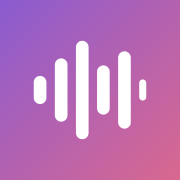
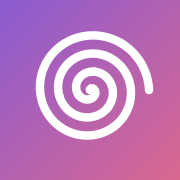
Sarmal tasarım ve ॐ

Changed region(s): [[0.1667, 0.1667, 0.8611, 0.7778]]

diff --git a/index.html b/index.html
@@ -117,12 +117,42 @@
   .note { color: var(--muted); font-size: 13px; text-align: center; margin-top: 8px; }
   .link { background: none; border: 0; color: var(--muted); font: inherit; font-size: 13px; text-decoration: underline; cursor: pointer; padding: 0; }
   [hidden] { display: none !important; }
+  .om {
+    font-weight: 400; display: inline-block; margin-left: 2px;
+    background: linear-gradient(135deg, var(--accent), var(--accent-2));
+    -webkit-background-clip: text; background-clip: text; color: transparent;
+  }
+  .foot-om { text-align: center; font-size: 26px; margin: 22px 0 0; opacity: .55; }
+
+  /* ---- sarmallar ---- */
+  .bg-spiral {
+    position: fixed; z-index: 0; pointer-events: none; opacity: .22;
+    width: min(62vw, 440px); height: auto; top: -40px; right: -90px;
+    transform-origin: 62% 38%; animation: sway 18s ease-in-out infinite alternate;
+  }
+  .bg-spiral.b { top: auto; right: auto; bottom: -70px; left: -110px; width: min(80vw, 560px); opacity: .14; transform: rotate(180deg); animation: none; }
+  @media (prefers-color-scheme: dark) { .bg-spiral { opacity: .3; } .bg-spiral.b { opacity: .18; } }
+  main { position: relative; z-index: 1; }
+  @keyframes turn { to { transform: rotate(360deg); } }
+  @keyframes sway { from { transform: rotate(-4deg); } to { transform: rotate(4deg); } }
+  .spin { animation: turn 2.4s linear infinite; }
+  .drop:hover .icon svg, .drop:active .icon svg { animation: turn 1.6s ease-in-out; }
+  .sprog { display: flex; align-items: center; gap: 14px; margin-top: 14px; }
+  .sprog-label { display: block; color: var(--muted); font-size: 14px; }
+  .sprog svg path.track { opacity: .15; }
+  .sprog svg path.fill { stroke-dasharray: 1; stroke-dashoffset: 1; transition: stroke-dashoffset .4s ease; }
+  .sprog-pct { font-size: 22px; font-weight: 750; font-variant-numeric: tabular-nums;
+    background: linear-gradient(90deg, var(--accent), var(--accent-2)); -webkit-background-clip: text; background-clip: text; color: transparent; }
+  .rec .dot svg { display: block; }
+  @media (prefers-reduced-motion: reduce) { .bg-spiral, .spin, .drop .icon svg { animation: none !important; } }
 </style>
 </head>
 <body>
+<span data-spiral="fib" data-size="440" class="bg-spiral"></span>
+<span data-spiral="fib" data-size="560" class="bg-spiral b"></span>
 <main>
   <div class="top"><a href="admin.html" id="allLink" hidden>Tüm notlar →</a></div>
-  <h1 class="hello"><span id="greet">Merhaba</span>, <span class="name">Buse</span> <span aria-hidden="true">👋</span></h1>
+  <h1 class="hello"><span id="greet">Merhaba</span>, <span class="name">Buse</span> <span class="om" aria-hidden="true">ॐ</span></h1>
   <p class="sub">Ders kaydını seç, yazıya dökeyim. Türkçe ve İngilizce kısımları ayrı ayrı tanırım.</p>
 
   <div class="card">
@@ -137,14 +167,17 @@
 
     <label class="drop" id="pickBtn" hidden>
       <span class="icon" aria-hidden="true">
-        <svg width="26" height="26" viewBox="0 0 24 24" fill="none" stroke="currentColor" stroke-width="2" stroke-linecap="round"><path d="M4 10v4M8 6v12M12 3v18M16 7v10M20 10v4"/></svg>
+        <span data-spiral="arch" data-size="34" data-width="7" data-turns="2.6" data-stroke="#fff"></span>
       </span>
       <span class="big">Ses kaydı seç</span>
       <span class="small">m4a, mp3, wav… uzunluk sınırı yok</span>
       <input id="file" type="file" accept="audio/*,video/*,.m4a,.mp3,.wav,.aac,.ogg,.opus" hidden>
     </label>
     <div class="status" id="status"></div>
-    <progress id="bar" max="1" value="0" hidden></progress>
+    <div class="sprog" id="bar" role="progressbar" aria-valuemin="0" aria-valuemax="100" hidden>
+      <span data-spiral="arch" data-size="56" data-width="6" class="sprog-svg"></span>
+      <span><span class="sprog-pct" id="barPct"></span><span class="sprog-label" id="barLabel"></span></span>
+    </div>
   </div>
 
   <div class="card" id="resultCard" hidden>
@@ -172,11 +205,18 @@
   </div>
 
   <p class="note" id="note" hidden>Kayıtların sadece sana ait gizli bir depoda işlenir. Yükleme bitince uygulamayı kapatabilirsin; metin hazır olunca burada görünür.<br><button class="link" id="tokenReset">Şifreyi yeniden gir</button></p>
+  <p class="foot-om"><span class="om" aria-hidden="true">ॐ</span></p>
 </main>
 
+<script src="spiral.js"></script>
 <script>
   const $ = (id) => document.getElementById(id);
   const statusEl = $('status'), bar = $('bar'), out = $('out');
+
+  // ilerleme: sarmal, yükleme ilerledikçe merkezden dışarı doğru çizilir
+  const barFill = bar.querySelector('path');
+  const barTrack = barFill.cloneNode(); barTrack.setAttribute('class', 'track');
+  barFill.setAttribute('class', 'fill'); barFill.before(barTrack);
   let lines = [], fileName = 'metin', busy = false, plain = true;
 
   const store = {
@@ -194,10 +234,15 @@
 
   // ---------- ortak arayüz ----------
   function setStatus(text, progress, kind = '') {
-    statusEl.textContent = text;
+    statusEl.textContent = progress != null ? '' : text;
     statusEl.className = 'status ' + kind;
-    if (progress != null) { bar.hidden = false; bar.value = progress; }
-    else bar.hidden = true;
+    if (progress != null) {
+      bar.hidden = false;
+      $('barLabel').textContent = text;
+      barFill.style.strokeDashoffset = String(1 - progress);
+      $('barPct').textContent = '%' + Math.round(progress * 100);
+      bar.setAttribute('aria-valuenow', Math.round(progress * 100));
+    } else bar.hidden = true;
   }
 
   function setBusy(b) {
@@ -381,7 +426,7 @@
 
       setStatus('Dosya hazırlanıyor...', 0);
       const b64 = await fileToBase64(file);
-      const blob = await uploadBlob(b64, (p) => setStatus(`Yükleniyor… %${Math.round(p * 100)}`, p * 0.95));
+      const blob = await uploadBlob(b64, (p) => setStatus('Yükleniyor…', p * 0.95));
 
       setStatus('Neredeyse bitti...', 0.97);
       const main = await ghJSON('/git/ref/heads/main');
@@ -460,7 +505,8 @@
     const add = (cls, icon, name, meta, onClick) => {
       const li = document.createElement('li');
       const b = document.createElement('button'); b.className = 'rec ' + cls;
-      const d = document.createElement('span'); d.className = 'dot'; d.textContent = icon;
+      const d = document.createElement('span'); d.className = 'dot';
+      if (typeof icon === 'string') d.textContent = icon; else d.append(icon);
       const body = document.createElement('span'); body.className = 'body';
       const n = document.createElement('span'); n.className = 'name'; n.textContent = name.replace(/\.[^.]+$/, '');
       const m = document.createElement('span'); m.className = 'meta'; m.textContent = meta;
@@ -471,9 +517,9 @@
       } else b.disabled = true;
       li.append(b); ul.append(li);
     };
-    for (const j of pending) add('pending', '⏳', j.name, jobState[j.id] || 'Bekleniyor…');
+    for (const j of pending) add('pending', Spiral.make('arch', 26, { width: 7, className: 'spin' }), j.name, jobState[j.id] || 'Bekleniyor…');
     for (const h of historyItems.slice(0, 10)) {
-      if (h.ok) add('', '📄', h.name || h.id, `${fmtDur(h.total_s)} · ${fmtDate(h.finished)}`, () => openResult(h));
+      if (h.ok) add('', Spiral.make('arch', 24, { width: 7, turns: 2.6 }), h.name || h.id, `${fmtDur(h.total_s)} · ${fmtDate(h.finished)}`, () => openResult(h));
       else add('failed', '⚠', h.name || h.id, 'İşlenemedi · ' + fmtDate(h.finished));
     }
     if (!pending.length && !historyItems.length) {

diff --git a/spiral.js b/spiral.js
@@ -1,0 +1,96 @@
+// Buse'ye özel sarmal çizimleri (altın oran ve Arşimet sarmalları), iki sayfa da kullanır.
+(() => {
+  const NS = 'http://www.w3.org/2000/svg';
+  const GOLDEN_K = Math.log((1 + Math.sqrt(5)) / 2) / (Math.PI / 2); // her çeyrek turda φ kat büyür
+
+  // r = a·e^(kθ), merkezden rMax'a kadar
+  function goldenPath(cx, cy, rMax, rMin = 0.6, steps = 700) {
+    const t1 = Math.log(rMax / rMin) / GOLDEN_K;
+    let d = '';
+    for (let i = 0; i <= steps; i++) {
+      const t = (t1 * i) / steps, r = rMin * Math.exp(GOLDEN_K * t);
+      d += (i ? 'L' : 'M') + (cx + r * Math.cos(t)).toFixed(2) + ' ' + (cy + r * Math.sin(t)).toFixed(2);
+    }
+    return d;
+  }
+
+  // r = rMax·θ/θmax, eşit aralıklı halkalar
+  function archPath(cx, cy, rMax, turns = 3, steps = 360) {
+    const t1 = turns * 2 * Math.PI;
+    let d = '';
+    for (let i = 0; i <= steps; i++) {
+      const t = (t1 * i) / steps, r = (rMax * t) / t1;
+      d += (i ? 'L' : 'M') + (cx + r * Math.cos(t)).toFixed(2) + ' ' + (cy + r * Math.sin(t)).toFixed(2);
+    }
+    return d;
+  }
+
+  // Fibonacci kareleri ve içlerinden geçen çeyrek yaylar (klasik altın sarmal çizimi)
+  function fibParts(n = 10) {
+    const F = [1, 1];
+    while (F.length < n) F.push(F.at(-1) + F.at(-2));
+    let minx = 0, miny = 0, maxx = 1, maxy = 1;
+    const squares = [[0, 0, 1]];
+    let d = 'M0 0 A1 1 0 0 0 1 1';
+    for (let i = 1; i < n; i++) {
+      const s = F[i], side = (i - 1) % 4;
+      let x0, y0, ex, ey;
+      if (side === 0) { x0 = maxx; y0 = miny; ex = x0 + s; ey = y0; maxx += s; }
+      else if (side === 1) { x0 = minx; y0 = miny - s; ex = x0; ey = y0; miny -= s; }
+      else if (side === 2) { x0 = minx - s; y0 = miny; ex = x0; ey = y0 + s; minx -= s; }
+      else { x0 = minx; y0 = maxy; ex = x0 + s; ey = y0 + s; maxy += s; }
+      squares.push([x0, y0, s]);
+      d += ` A${s} ${s} 0 0 0 ${ex} ${ey}`;
+    }
+    return { squares, d, box: [minx, miny, maxx - minx, maxy - miny] };
+  }
+
+  function fib(size, className = '') {
+    const { squares, d, box } = fibParts();
+    const svg = document.createElementNS(NS, 'svg');
+    svg.setAttribute('viewBox', box.join(' '));
+    svg.setAttribute('width', size); svg.setAttribute('height', (size * box[3]) / box[2]);
+    svg.setAttribute('aria-hidden', 'true');
+    if (className) svg.setAttribute('class', className);
+    const id = 'sg' + ++gradId, w = box[2] / 400;
+    svg.innerHTML = `<defs><linearGradient id="${id}" x1="0" y1="0" x2="1" y2="1">
+      <stop offset="0" style="stop-color:var(--accent)"/><stop offset="1" style="stop-color:var(--accent-2)"/></linearGradient></defs>`
+      + squares.map(([x, y, s]) => `<rect x="${x}" y="${y}" width="${s}" height="${s}" fill="none" stroke="url(#${id})" stroke-width="${w * 0.6}" opacity=".55"/>`).join('')
+      + `<path d="${d}" fill="none" stroke="url(#${id})" stroke-width="${w * 2.2}" stroke-linecap="round"/>`;
+    return svg;
+  }
+
+  let gradId = 0;
+  function make(kind, size, { stroke = 'url', width = 2, className = '', turns = 3 } = {}) {
+    const svg = document.createElementNS(NS, 'svg');
+    svg.setAttribute('viewBox', '0 0 100 100');
+    svg.setAttribute('width', size); svg.setAttribute('height', size);
+    svg.setAttribute('aria-hidden', 'true');
+    if (className) svg.setAttribute('class', className);
+    let color = stroke;
+    if (stroke === 'url') {
+      const id = 'sg' + ++gradId;
+      svg.innerHTML = `<defs><linearGradient id="${id}" x1="0" y1="0" x2="1" y2="1">
+        <stop offset="0" style="stop-color:var(--accent)"/><stop offset="1" style="stop-color:var(--accent-2)"/></linearGradient></defs>`;
+      color = `url(#${id})`;
+    }
+    const p = document.createElementNS(NS, 'path');
+    p.setAttribute('d', kind === 'golden' ? goldenPath(50, 50, 46) : archPath(50, 50, 44, turns));
+    p.setAttribute('fill', 'none'); p.setAttribute('stroke', color);
+    p.setAttribute('stroke-width', width); p.setAttribute('stroke-linecap', 'round');
+    p.setAttribute('pathLength', '1');
+    svg.append(p);
+    return svg;
+  }
+
+  window.Spiral = { make, fib, goldenPath, archPath };
+
+  // sayfadaki <span data-spiral="golden|arch" data-size=".." ...> yer tutucularını doldur
+  for (const el of document.querySelectorAll('[data-spiral]')) {
+    if (el.dataset.spiral === 'fib') { el.replaceWith(fib(el.dataset.size || 600, el.className)); continue; }
+    el.replaceWith(make(el.dataset.spiral, el.dataset.size || 24, {
+      stroke: el.dataset.stroke || 'url', width: +(el.dataset.width || 2),
+      className: el.className, turns: +(el.dataset.turns || 3),
+    }));
+  }
+})();

diff --git a/admin.html b/admin.html
@@ -14,13 +14,13 @@
 <style>
   :root {
     --bg: #faf6f3; --card: #ffffff; --text: #241f26; --muted: #7a7079;
-    --line: #ece4df; --accent: #8a5cd0; --accent-text: #fff; --soft: #f3edfb;
+    --line: #ece4df; --accent: #8a5cd0; --accent-2: #d9688f; --accent-text: #fff; --soft: #f3edfb;
     --tr: #c2410c; --en: #1d4ed8; --err: #b42318; --mark: #fde68a;
   }
   @media (prefers-color-scheme: dark) {
     :root {
       --bg: #18151b; --card: #221e26; --text: #f1ecf3; --muted: #a69cab;
-      --line: #342e3a; --accent: #b393ec; --accent-text: #17131b; --soft: #2b2436;
+      --line: #342e3a; --accent: #b393ec; --accent-2: #f08fb0; --accent-text: #17131b; --soft: #2b2436;
       --tr: #fb923c; --en: #93b4ff; --err: #f97066; --mark: #6b5a1e;
     }
   }
@@ -84,12 +84,28 @@
   .lock { max-width: 420px; margin: 40px auto; }
   .lock .row { display: flex; gap: 8px; margin-top: 12px; }
   [hidden] { display: none !important; }
+  .bg-spiral {
+    position: fixed; z-index: 0; pointer-events: none; opacity: .22;
+    width: min(62vw, 440px); height: auto; top: -40px; right: -90px;
+    transform-origin: 62% 38%; animation: sway 18s ease-in-out infinite alternate;
+  }
+  .bg-spiral.b { top: auto; right: auto; bottom: -70px; left: -110px; width: min(80vw, 560px); opacity: .14; transform: rotate(180deg); animation: none; }
+  @media (prefers-color-scheme: dark) { .bg-spiral { opacity: .3; } .bg-spiral.b { opacity: .18; } }
+  main { position: relative; z-index: 1; }
+  h1 { display: flex; align-items: center; gap: 10px; }
+  @keyframes turn { to { transform: rotate(360deg); } }
+  @keyframes sway { from { transform: rotate(-4deg); } to { transform: rotate(4deg); } }
+  .spin { animation: turn 2.4s linear infinite; vertical-align: middle; }
+  .list .dot { float: left; margin: 2px 10px 0 0; }
+  @media (prefers-reduced-motion: reduce) { .bg-spiral, .spin { animation: none !important; } }
 </style>
 </head>
 <body>
+<span data-spiral="fib" data-size="440" class="bg-spiral"></span>
+<span data-spiral="fib" data-size="560" class="bg-spiral b"></span>
 <main>
   <header>
-    <h1>Buse'nin notları</h1>
+    <h1><span data-spiral="arch" data-size="30" data-width="7" data-turns="2.6"></span>Buse'nin notları</h1>
     <a href="./">← Ses Yazı</a>
   </header>
 
@@ -146,6 +162,7 @@
   </div>
 </main>
 
+<script src="spiral.js"></script>
 <script>
   const $ = (id) => document.getElementById(id);
   const REPO = 'Spryzenweb/sesyazi-data';
@@ -199,7 +216,11 @@
 
   const fmtDur = (s) => s >= 3600 ? `${Math.floor(s / 3600)} sa ${Math.round(s / 60) % 60} dk` : s >= 60 ? `${Math.round(s / 60)} dk` : `${Math.round(s || 0)} sn`;
   const fmtDate = (sec) => new Date(sec * 1000).toLocaleString('tr-TR', { day: 'numeric', month: 'short', year: 'numeric', hour: '2-digit', minute: '2-digit' });
-  const listStatus = (t, err) => { $('listStatus').textContent = t; $('listStatus').className = 'status' + (err ? ' err' : ''); };
+  const listStatus = (t, err) => {
+    const el = $('listStatus'); el.textContent = ''; el.className = 'status' + (err ? ' err' : '');
+    if (t && !err) el.append(Spiral.make('arch', 16, { width: 8, className: 'spin' }), ' ');
+    if (t) el.append(t);
+  };
 
   async function start() {
     $('lock').hidden = true; $('app').hidden = false;

diff --git a/sw.js b/sw.js
@@ -1,6 +1,6 @@
 // Sayfayı önbelleğe alır ki internet zayıfken de açılsın.
-const CACHE = 'sesyazi-v11';
-const CORE = ['./', 'index.html', 'admin.html', 'manifest.webmanifest', 'icon-180.png', 'icon-192.png', 'icon-512.png'];
+const CACHE = 'sesyazi-v12';
+const CORE = ['./', 'index.html', 'admin.html', 'spiral.js', 'manifest.webmanifest', 'icon-180.png', 'icon-192.png', 'icon-512.png'];
 
 self.addEventListener('install', (e) => {
   e.waitUntil(caches.open(CACHE).then((c) => c.addAll(CORE)).then(() => self.skipWaiting()));
